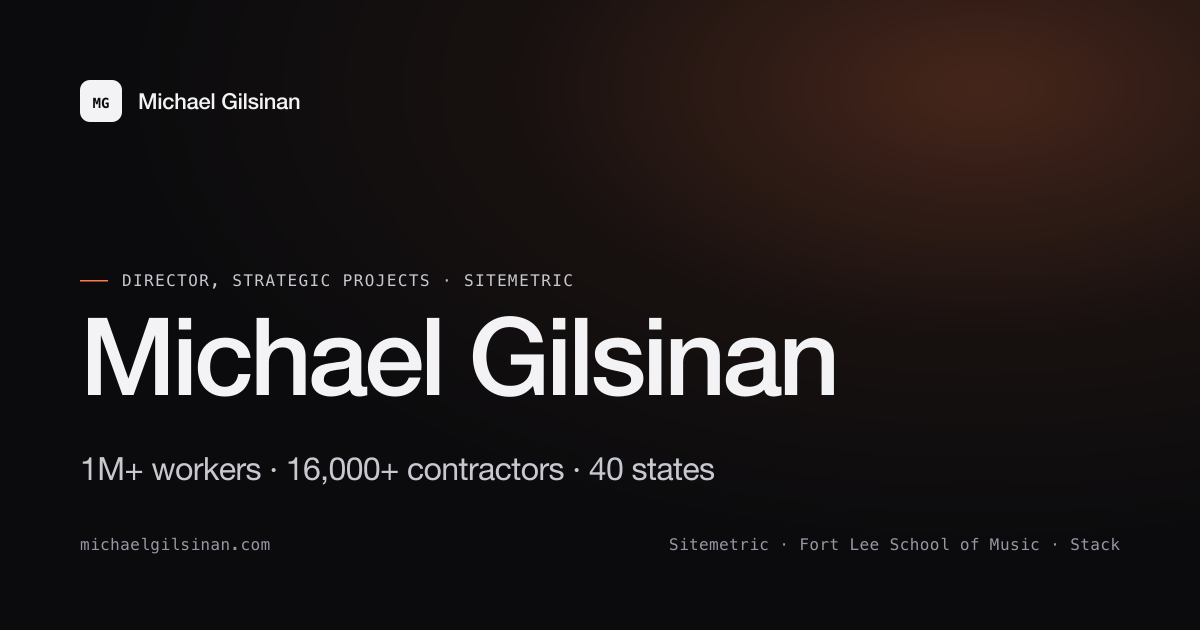
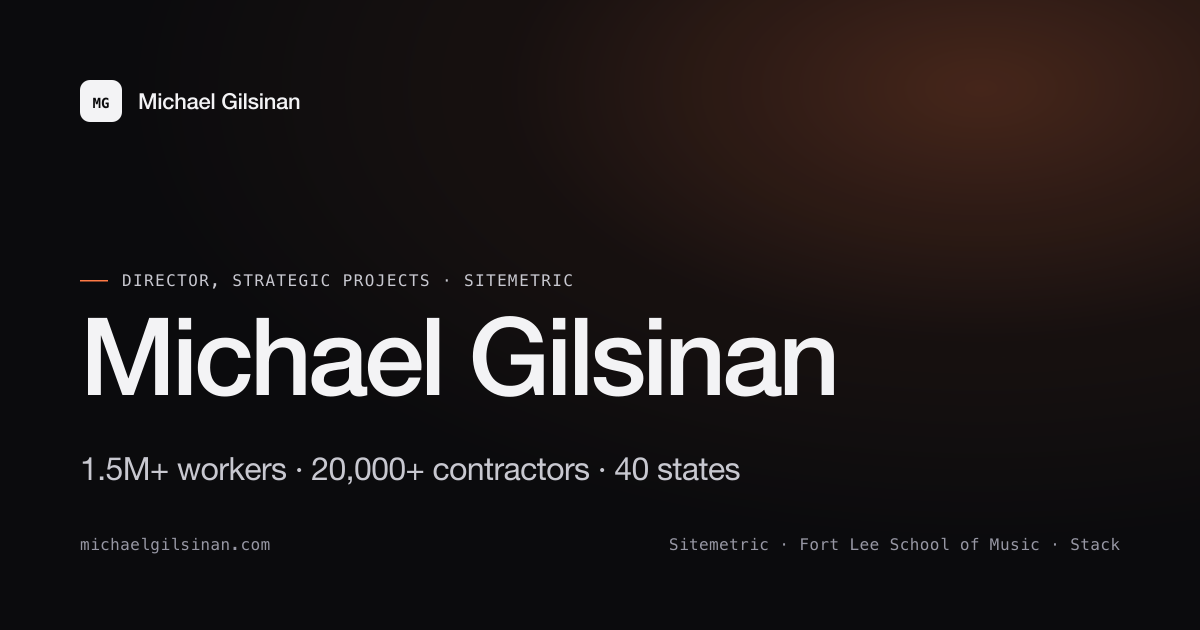
Add Praxis Stack card, guitar video, and Sitemetric stat band
- Give Praxis Stack its own Work card below Fort Lee School of Music,
  with demo screenshots, and remove it from the Fort Lee card.
- Add a click-to-play performance video to Background. The YouTube
  player only loads when someone presses play.
- Add a stat band to the Sitemetric card and update the figures to
  match sitemetric.com (1.5M+ workers, 20,000+ contractors) in the
  card, search description, and social preview image.

Changed region(s): [[0.0617, 0.7238, 0.6167, 0.7841]]

diff --git a/src/styles/global.css b/src/styles/global.css
@@ -706,6 +706,43 @@ img {
   gap: 11px;
 }
 
+/* Sitemetric scale figures */
+
+.project-stats {
+  display: grid;
+  grid-template-columns: repeat(3, minmax(0, 1fr));
+  margin: clamp(26px, 3.4vw, 40px) 0 0;
+  border-top: 1px solid var(--line);
+  padding-top: clamp(20px, 2.6vw, 28px);
+}
+
+.project-stat {
+  display: flex;
+  flex-direction: column-reverse;
+  justify-content: flex-end;
+  gap: 10px;
+  border-left: 1px solid var(--line);
+  padding-inline: clamp(16px, 2.4vw, 28px);
+}
+
+.project-stat:first-child {
+  border-left: 0;
+  padding-left: 0;
+}
+
+.project-stat dd {
+  margin: 0;
+  color: var(--ink);
+  font-size: var(--step-3);
+  font-weight: 600;
+  letter-spacing: -0.03em;
+  line-height: 1;
+}
+
+.project-stat dt {
+  color: var(--muted);
+}
+
 /* Stack screenshot gallery */
 
 .project-gallery {
@@ -760,8 +797,57 @@ img {
   background: var(--surface);
 }
 
+/* Product screenshots keep their full frame, in columns sized so both
+   screens land at the same height. */
+
+.project-visuals.screens {
+  grid-template-columns: minmax(0, 1.157fr) minmax(0, 1fr);
+}
+
+.project-visuals.screens .project-visual {
+  display: flex;
+  flex-direction: column;
+}
+
+.project-visuals.screens .project-visual img {
+  aspect-ratio: auto;
+}
+
+.project-visuals.screens .project-visual figcaption {
+  flex: 1;
+}
+
+.project-note {
+  margin-top: 12px;
+  color: var(--muted);
+  font-family: var(--font-mono);
+  font-size: 0.72rem;
+  letter-spacing: 0.03em;
+}
+
 @media (max-width: 620px) {
-  .project-visuals {
+  .project-stats {
+    grid-template-columns: 1fr;
+    padding-top: 0;
+  }
+
+  .project-stat,
+  .project-stat:first-child {
+    gap: 8px;
+    border-left: 0;
+    padding: 16px 0;
+  }
+
+  .project-stat:not(:first-child) {
+    border-top: 1px solid var(--line);
+  }
+
+  .project-stat:last-child {
+    padding-bottom: 0;
+  }
+
+  .project-visuals,
+  .project-visuals.screens {
     grid-template-columns: 1fr;
   }
 
@@ -816,6 +902,75 @@ img {
   color: var(--muted);
   max-width: 68ch;
   text-wrap: pretty;
+}
+
+/* Click-to-play video */
+
+.video {
+  max-width: 68ch;
+  margin-top: 22px;
+  border: 1px solid var(--line);
+  border-radius: var(--radius);
+  overflow: hidden;
+  background: var(--surface);
+}
+
+.video-frame {
+  position: relative;
+  display: block;
+  aspect-ratio: 16 / 9;
+  background: #0b0b0d;
+}
+
+.video-frame img,
+.video-frame iframe {
+  display: block;
+  width: 100%;
+  height: 100%;
+  border: 0;
+  object-fit: cover;
+}
+
+.video-frame:focus-visible {
+  outline: 2px solid var(--accent);
+  outline-offset: -2px;
+}
+
+.video-play {
+  position: absolute;
+  right: 12px;
+  bottom: 12px;
+  display: inline-flex;
+  align-items: center;
+  gap: 8px;
+  border-radius: 999px;
+  padding: 8px 14px;
+  color: #fff;
+  background: rgba(11, 11, 13, 0.82);
+  transition:
+    color var(--speed) var(--ease),
+    background var(--speed) var(--ease);
+}
+
+.video-frame:hover .video-play {
+  color: var(--accent-ink);
+  background: var(--accent);
+}
+
+.video figcaption {
+  padding: 12px 16px;
+  border-top: 1px solid var(--line);
+  color: var(--muted);
+}
+
+@media (max-width: 520px) {
+  .video-play {
+    right: 8px;
+    bottom: 8px;
+    gap: 6px;
+    padding: 5px 10px;
+    font-size: 0.68rem;
+  }
 }
 
 .timeline-link {
